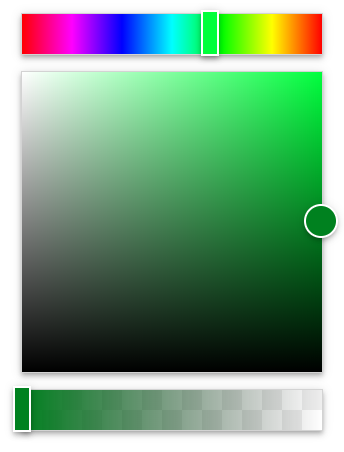
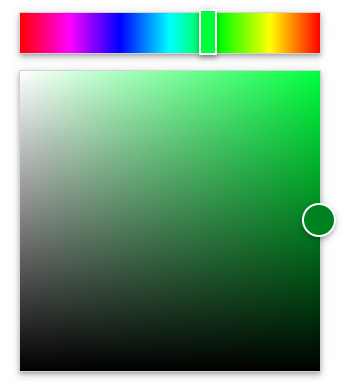
jsfiddle

diff --git a/README.md b/README.md
@@ -15,6 +15,8 @@ Engine of color picker which you can use to create a component in any javascript
 
 Example from below presents a code to create a simple component with rainbow and gradient pickers.
 
+[Live demo @ jsfiddle](https://jsfiddle.net/exnext/hk7ba8ux/)
+
 ```js
 let config = {
     picker: '#picker1'
@@ -28,8 +30,7 @@ let colorpicker = new colorex(config);
 ```
 
 <p align="center">
-    <!-- <img src="./image/simple.png"> -->
-    <script async src="//jsfiddle.net/exnext/hk7ba8ux/embed/"></script>
+    <img src="./image/simple.png">
 </p>
 
 ## Set and get color
@@ -47,6 +48,8 @@ let color = colorpicker.color; //#0000ff
 ## Create a component with alphablend detail
 
 Adding an alphablend field with the value set to true, we create colorex component with alpha blend picker. Getter of the color property return hexadecimal value with alpha level.
+
+[Live demo @ jsfiddle](https://jsfiddle.net/exnext/n0yjb5ce/)
 
 ```js
 let config = {
@@ -70,6 +73,8 @@ let color = colorpicker.color; //#0000ff7f
 
 Create component with initial value of the color if default color should not be visible on the start.
 
+[Live demo @ jsfiddle](https://jsfiddle.net/exnext/wa96ns7p/)
+
 ```js
 let config = {
     picker: document.getElementById("picker3"),
@@ -85,6 +90,8 @@ let color = colorpicker.color;
 
 All click events on each picker evokes onChange event. Its argument has included new value of color, which can also be read from color field of colorex component.
 
+[Live demo @ jsfiddle](https://jsfiddle.net/exnext/c3sptan5/)
+
 ```js
 let config = {
     picker: document.querySelector('#picker4'),
@@ -99,6 +106,8 @@ let colorpicker = new colorex(config);
 ## Horizontal pickers
 
 Adding a horizontal field with the value set to true, we can change rainbow and alphablend pickers orientation.
+
+[Live demo @ jsfiddle](https://jsfiddle.net/exnext/hkzgurpf/)
 
 ```js
 let config = {
@@ -117,6 +126,8 @@ let colorpicker = new colorex(config);
 
 Changes orientation is possible for selected picker. You have to build yours own DOM for component and indicate each element of colorex component. Possible is indicate elements by class, id, object of element or any selectors.
 
+[Live demo @ jsfiddle](https://jsfiddle.net/exnext/g5qbsrhe/)
+
 ```js
 let config = {
     picker: {
@@ -124,6 +135,7 @@ let config = {
         gradient: document.getElementById('gradient'),
         alpha: document.querySelector('.alpha')
     },
+    alphablend: true,
     horizontal: { rainbow: false, alpha: true }
     // horizontal: { alpha: true }
 };
@@ -162,10 +174,11 @@ Below is example DOM of component and extend colorex class in CSS. Class of colo
 
 The pixelize is feature with step draw color on pickers and step changing values on them. Pixelize field with the value set to 0 work like configuration without pixalize field.
 
+[Live demo @ jsfiddle](https://jsfiddle.net/exnext/56yfpk4q/)
+
 ```js
 let config = {
     picker: '.picker6',
-    alphablend: true,
     pixelize: 7
 };
 
@@ -179,6 +192,8 @@ let colorpicker = new colorex(config);
 ## Pixelization selected element
 
 Similar to horizontal custom element, user can customize all pickers separately. On this situation own DOM for component is not necessary.
+
+[Live demo @ jsfiddle](https://jsfiddle.net/exnext/cqre46s9/)
 
 ```js
 let config = {
